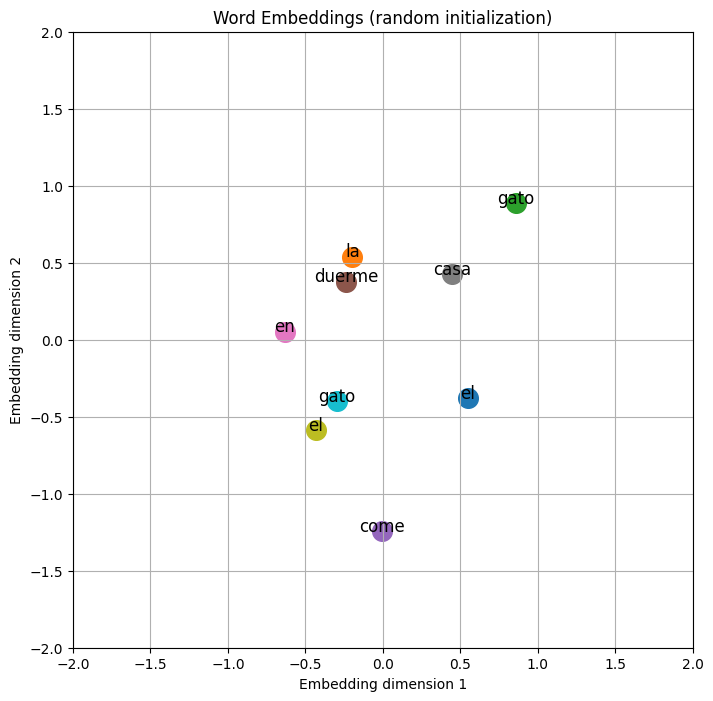
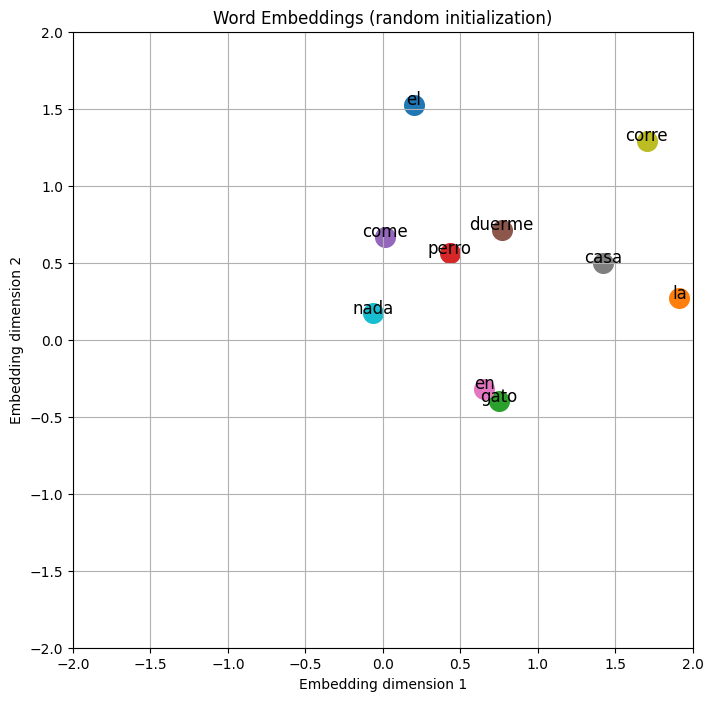
Update 11_onehot_embedding.py - unique words, training pairs from ipynb

diff --git a/11_onehot_embedding.py b/11_onehot_embedding.py
@@ -10,12 +10,9 @@ import matplotlib.pyplot as plt
 # ============================================================
 # VOCABULARY - 10 words
 # ============================================================
-vocab = ["el", "la", "gato", "perro", "come", "duerme", "en", "casa", "el", "gato"]
+vocab = ["el", "la", "gato", "perro", "come", "duerme", "en", "casa", "corre", "nada"]
 vocab_size = len(vocab)
-embed_dim = 2  # Compress to 2D for visualization
-
-print(f"Vocab size: {vocab_size}")
-print(f"Words: {vocab}")
+embed_dim = 3
 
 # ============================================================
 # Create one-hot encoding manually
@@ -25,44 +22,26 @@ def one_hot(word_idx, vocab_size):
   vector[word_idx] = 1
   return vector
 
-# Test one-hot
-print(f"\nOne-hot for 'gato' (idx=2):")
-print(one_hot(2, vocab_size))
-
 # ============================================================
 # Method 1: Using nn.Linear (manual approach)
 # ============================================================
-print("\n=== Method 1: nn.Linear ===")
 linear_layer = nn.Linear(vocab_size, embed_dim, bias=False)
-
-# Compress one-hot to embedding
 gato_onehot = one_hot(2, vocab_size)
 gato_embedding = linear_layer(gato_onehot)
-print(f"Embedding for 'gato': {gato_embedding.detach().numpy()}")
+print(f"Method 1 (Linear) - 'gato' embedding: {gato_embedding.detach().numpy()}")
 
 # ============================================================
 # Method 2: Using nn.Embedding (built-in)
 # ============================================================
-print("\n=== Method 2: nn.Embedding ===")
 embedding_layer = nn.Embedding(vocab_size, embed_dim)
-
-# Embedding layer expects index, not one-hot
 gato_idx = torch.tensor([2])
 gato_embedding2 = embedding_layer(gato_idx)
-print(f"Embedding for 'gato': {gato_embedding2.detach().numpy()[0]}")
-
-# ============================================================
-# COMPARISON: Both do matrix multiplication!
-# ============================================================
-print("\n=== Compare weights ===")
-print(f"Linear weight matrix:\n{linear_layer.weight.detach().numpy()}")
-print(f"Embedding weight matrix:\n{embedding_layer.weight.detach().numpy()}")
-print("These are the SAME concept - just different interfaces!")
+print(f"Method 2 (Embedding) - 'gato' embedding: {gato_embedding2.detach().numpy()[0]}")
+print(f"Linear weight matrix:\n{linear_layer.weight.detach().numpy()}\nEmbedding weight:\n{embedding_layer.weight.detach().numpy()}")
 
 # ============================================================
 # VISUALIZE: Embeddings for all words
 # ============================================================
-print("\n=== Visualize all word embeddings ===")
 fig, ax = plt.subplots(figsize=(8, 8))
 
 for i, word in enumerate(vocab):
@@ -88,17 +67,17 @@ print("Saved: plots/11_embeddings_random.png")
 
 print("\n=== Training embeddings ===")
 
-# Create training pairs (fake context)
 pairs = [
   (0, 2),   # el-gato
   (0, 3),   # el-perro
-  (2, 4),   # gato-come
-  (3, 4),   # perro-come
-  (2, 5),   # gato-duerme
-  (3, 5),   # perro-duerme
+  (2, 3),   # gato-perro
+  (2, 8),   # gato-corre
+  (3, 8),   # perro-corre
+  (3, 9),   # perro-nada
+  (4, 5),   # come-duerme
+  (6, 7),   # en-casa
 ]
 
-# Train embeddings to be close for related words
 optimizer = optim.Adam(embedding_layer.parameters(), lr=0.1)
 criterion = nn.MSELoss()
 
@@ -107,12 +86,9 @@ for epoch in range(500):
   for word_idx, context_idx in pairs:
     word = torch.tensor([word_idx])
     context = torch.tensor([context_idx])
-
     word_emb = embedding_layer(word)
     context_emb = embedding_layer(context)
-
-    # Try to make related words have similar embeddings
-    loss = criterion(word_emb, context_emb * 0.5)  # Target: half of context
+    loss = criterion(word_emb, context_emb * 0.5)
     total_loss += loss
 
   optimizer.zero_grad()
@@ -139,5 +115,3 @@ ax.set_title('Word Embeddings (after training)')
 ax.grid(True)
 plt.savefig('plots/11_embeddings_trained.png', dpi=100, bbox_inches='tight')
 print("Saved: plots/11_embeddings_trained.png")
-
-print("\n=== Done ===")